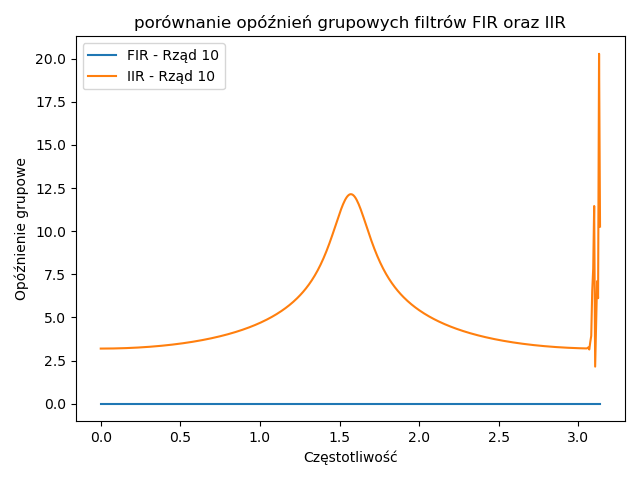
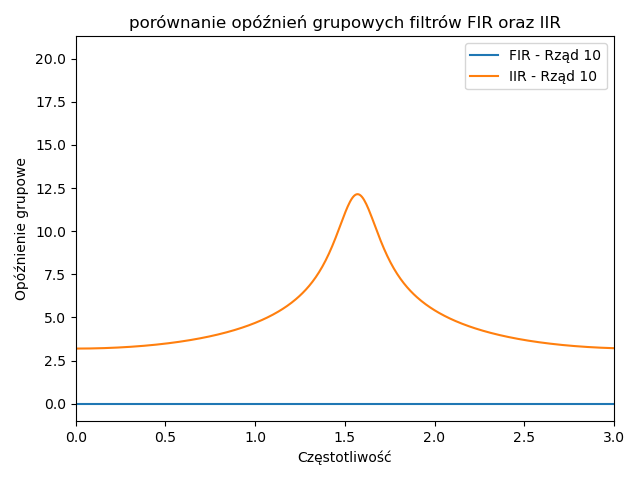
dsf

diff --git a/psio/zajecia6/main.py b/psio/zajecia6/main.py
@@ -107,7 +107,6 @@ import sounddevice as sd
 # cutoff_freq = 3000
 # order = 10
 # nyquist_rate = 2 * cutoff_freq
-#
 # norm = cutoff_freq / nyquist_rate
 #
 #
@@ -115,13 +114,11 @@ import sounddevice as sd
 # w_fir, h_fir = freqz(taps)
 # plt.plot(0.5 * nyquist_rate * w_fir / np.pi, 20*np.log10(np.abs(h_fir)), label=f'FIR Rząd {order}')
 #
-#
 # coefficients = iirfilter(order, norm, btype='lowpass')
 # b = coefficients[0]
 # a = coefficients[1]
 # w_iir, h_iir = freqz(b, a)
-# plt.plot(0.5 * nyquist_rate * w_iir / np.pi, 20*np.log10(np.abs(h_iir)), label=f'FIR Rząd {order}')
-#
+# plt.plot(0.5 * nyquist_rate * w_iir / np.pi, 20*np.log10(np.abs(h_iir)), label=f'IIR Rząd {order}')
 # plt.title("Amplitudowa odpowiedź częstotliwościowa filtrów FIR oraz IIR")
 # plt.xlabel("Częstotliwość [Hz]")
 # plt.ylabel("Amplituda")
@@ -141,7 +138,6 @@ import sounddevice as sd
 # plt.title("Porównanie fazowych odpowiedzi częstotliwościowych filtrów FIR i IIR")
 # plt.xlabel("Częstotliwość [Hz]")
 # plt.ylabel("Faza [rad]")
-# # plt.ylim(-20, 0)
 # plt.legend()
 # plt.grid()
 # plt.tight_layout()
@@ -159,6 +155,7 @@ import sounddevice as sd
 # plt.xlabel("Częstotliwość")
 # plt.plot(w_fir, gd_fir, label=f'FIR - Rząd {order}')
 # plt.plot(w_iir, gd_iir, label=f'IIR - Rząd {order}')
+# plt.xlim((0,3))
 # plt.legend()
 # plt.tight_layout()
 # plt.savefig("Zadanie2_c")
@@ -210,29 +207,29 @@ ax = axs[1]; ax.plot(n, lfilter(b, a, signal)[:t*FS]); ax.set_title("Sygnał prz
 fig.set_tight_layout(tight=True)
 plt.savefig("Zadanie3_b.png")
 
-# sd.play(signal, FS)
-# sd.wait()
-# sd.play(lfilter(b, a, signal), FS)
-# sd.wait()
+sd.play(signal, FS)
+sd.wait()
+sd.play(lfilter(b, a, signal), FS)
+sd.wait()
 
 
-fs, y = periodogram(signal, FS, scaling='spectrum')
-fs, y_filtered = periodogram(lfilter(b, a, signal), FS, scaling='spectrum')
-
-fig, axs = plt.subplots(1, 2)
-fig.set_size_inches(14, 6)
-ax = axs[0]; ax.plot(fs, 20*np.log10(np.abs(y))); ax.set_title("Sygnał wejściowy - periodogram"); ax.set_ylabel("Moc [dB]"); ax.set_xlabel("Czestotliwość [Hz]")
-ax = axs[1]; ax.plot(fs, 20*np.log10(np.abs(y_filtered))); ax.set_title("Sygnał przefiltrowany - periodogram"); ax.set_ylabel("Moc [dB]"); ax.set_xlabel("Czestotliwość [Hz]")
-fig.set_tight_layout(tight=True)
-plt.savefig("Zadanie3_c.png")
-
-
-fs, t, sxx = spectrogram(signal, FS, mode='magnitude')
-fs_filtered, t_filtered, sxx_filtered = spectrogram(lfilter(b, a, signal), FS, mode='magnitude')
-
-fig, axs = plt.subplots(1, 2)
-fig.set_size_inches(14, 6)
-ax = axs[0]; mesh = ax.pcolormesh(t, fs, sxx); cb = fig.colorbar(mesh, ax=ax); cb.set_label("Moc [dB]"); ax.set_title("Sygnał wejściowy - spektogram"); ax.set_ylabel("Czestotliwość [Hz]"); ax.set_xlabel("Czas [s]")
-ax = axs[1]; mesh = ax.pcolormesh(t_filtered, fs_filtered, sxx_filtered); cb = fig.colorbar(mesh, ax=ax); cb.set_label("Moc [dB]"); ax.set_title("Sygnał przefiltrowany - spektogram"); ax.set_ylabel("Czestotliwość [Hz]"); ax.set_xlabel("Czas [s]")
-fig.set_tight_layout(tight=True)
-plt.savefig("Zadanie3_d.png")
+# fs, y = periodogram(signal, FS, scaling='spectrum')
+# fs, y_filtered = periodogram(lfilter(b, a, signal), FS, scaling='spectrum')
+#
+# fig, axs = plt.subplots(1, 2)
+# fig.set_size_inches(14, 6)
+# ax = axs[0]; ax.plot(fs, 20*np.log10(np.abs(y))); ax.set_title("Sygnał wejściowy - periodogram"); ax.set_ylabel("Moc [dB]"); ax.set_xlabel("Czestotliwość [Hz]")
+# ax = axs[1]; ax.plot(fs, 20*np.log10(np.abs(y_filtered))); ax.set_title("Sygnał przefiltrowany - periodogram"); ax.set_ylabel("Moc [dB]"); ax.set_xlabel("Czestotliwość [Hz]")
+# fig.set_tight_layout(tight=True)
+# plt.savefig("Zadanie3_c.png")
+#
+#
+# fs, t, sxx = spectrogram(signal, FS, mode='magnitude')
+# fs_filtered, t_filtered, sxx_filtered = spectrogram(lfilter(b, a, signal), FS, mode='magnitude')
+#
+# fig, axs = plt.subplots(1, 2)
+# fig.set_size_inches(14, 6)
+# ax = axs[0]; mesh = ax.pcolormesh(t, fs, sxx); cb = fig.colorbar(mesh, ax=ax); cb.set_label("Moc [dB]"); ax.set_title("Sygnał wejściowy - spektogram"); ax.set_ylabel("Czestotliwość [Hz]"); ax.set_xlabel("Czas [s]")
+# ax = axs[1]; mesh = ax.pcolormesh(t_filtered, fs_filtered, sxx_filtered); cb = fig.colorbar(mesh, ax=ax); cb.set_label("Moc [dB]"); ax.set_title("Sygnał przefiltrowany - spektogram"); ax.set_ylabel("Czestotliwość [Hz]"); ax.set_xlabel("Czas [s]")
+# fig.set_tight_layout(tight=True)
+# plt.savefig("Zadanie3_d.png")
